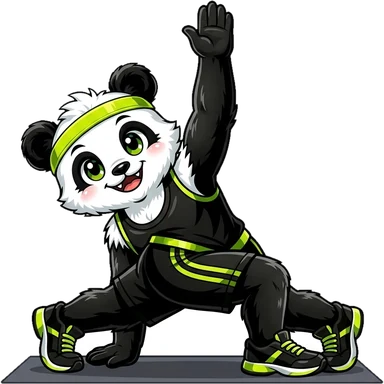
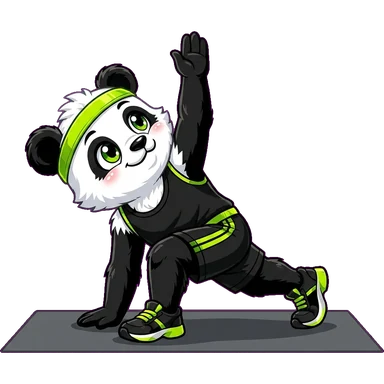
fix(mobilite): séance en cours sur un seul écran, exercice plus grand (#99)
* fix(mobilite): la séance en cours tient sur un seul écran, avec l’exercice plus grand

- Illustration plus grande (36 % de la hauteur d’écran), cadran et chrono calés sur la hauteur
- Consigne limitée à 3 lignes (2 sur petit écran), textes resserrés

* fix(mobilite): séance d’après la maquette validée, et trois dessins du panda refaits

- L’illustration prend toute la place libre entre la barre et le cadran (cadran fixe de 7 rem, chrono de 2,25 rem)
- Dessins garçon refaits avec Gemini : Fente avec rotation, Ischios allongé avec serviette, Balancés de jambe

---------

diff --git a/web/src/app/app.css b/web/src/app/app.css
@@ -8607,16 +8607,16 @@ time,
 .mobilite__son { min-height: 44px; padding: 0 0.875rem; border-radius: var(--radius-pilule); font-size: 0.8125rem; }
 .mobilite__progression { height: 6px; border-radius: 999px; background: color-mix(in srgb, var(--couleur-mobilite) 14%, var(--surface)); overflow: hidden; }
 .mobilite__progression span { display: block; height: 100%; background: var(--couleur-mobilite); transition: width 300ms linear; }
-.mobilite__illustration { display: block; width: 9rem; height: 9rem; margin: 0 auto; object-fit: contain; }
-.mobilite__cadran { display: grid; place-items: center; width: min(12rem, 60vw); aspect-ratio: 1; margin: 0.75rem auto; border: 10px solid var(--couleur-mobilite); border-radius: 50%; background: color-mix(in srgb, var(--couleur-mobilite) 6%, var(--surface)); }
+.mobilite__illustration { display: block; flex: 1 1 0; width: 100%; min-height: 8rem; max-height: 26rem; margin: 0 auto; object-fit: contain; }
+.mobilite__cadran { display: grid; place-items: center; flex: none; width: 7rem; aspect-ratio: 1; margin: 0.25rem auto; border: 8px solid var(--couleur-mobilite); border-radius: 50%; background: color-mix(in srgb, var(--couleur-mobilite) 6%, var(--surface)); }
 .mobilite__cadran--pause { border-color: color-mix(in srgb, var(--couleur-mobilite) 35%, var(--surface)); }
-.mobilite__chrono { font-family: var(--police-titres); font-size: 3.5rem; font-weight: 800; font-variant-numeric: tabular-nums; }
-.mobilite__consigne { display: grid; gap: 0.375rem; text-align: center; justify-items: center; }
+.mobilite__chrono { font-family: var(--police-titres); font-size: 2.25rem; font-weight: 800; font-variant-numeric: tabular-nums; }
+.mobilite__consigne { display: grid; gap: 0.25rem; text-align: center; justify-items: center; }
 .mobilite__consigne p { margin: 0; }
 .mobilite__phase { padding: 0.125rem 0.75rem; border-radius: var(--radius-pilule); background: color-mix(in srgb, var(--couleur-mobilite) 14%, var(--surface)); color: var(--couleur-mobilite); font-weight: 800; }
-.mobilite__nom { margin: 0; font-family: var(--police-titres); font-size: 1.5rem; font-weight: 800; }
+.mobilite__nom { margin: 0; font-family: var(--police-titres); font-size: clamp(1.125rem, 3.2dvh, 1.375rem); font-weight: 800; line-height: 1.2; text-wrap: balance; }
 .mobilite__zones-seance, .mobilite__suivante { color: var(--texte-secondaire); font-size: var(--taille-petit); }
-.mobilite__texte { max-width: 28rem; line-height: 1.5; }
+.mobilite__texte { display: -webkit-box; max-width: 28rem; overflow: hidden; font-size: var(--taille-petit); line-height: 1.4; -webkit-box-orient: vertical; -webkit-line-clamp: 3; line-clamp: 3; }
 .mobilite__commandes { display: flex; gap: 0.5rem; }
 .mobilite__commandes .bouton { flex: 1; }
 .mobilite__fin { justify-items: center; text-align: center; }
@@ -9365,3 +9365,7 @@ time,
 .nutri__vide-panda { width: 6rem; height: 6rem; object-fit: contain; }
 .nutri__vide-titre { margin: 0; font-weight: 700; }
 .outils__carte { border-radius: 1.25rem; min-height: 5.5rem; }
+
+/* Séance de mobilité : tout tient sur un écran de téléphone, sans défilement */
+.mobilite__seance { display: flex; flex-direction: column; gap: 0.5rem; min-height: calc(100dvh - 5.5rem); }
+@media (max-height: 41rem) { .mobilite__illustration { min-height: 6rem; } .mobilite__texte { -webkit-line-clamp: 2; line-clamp: 2; } }
